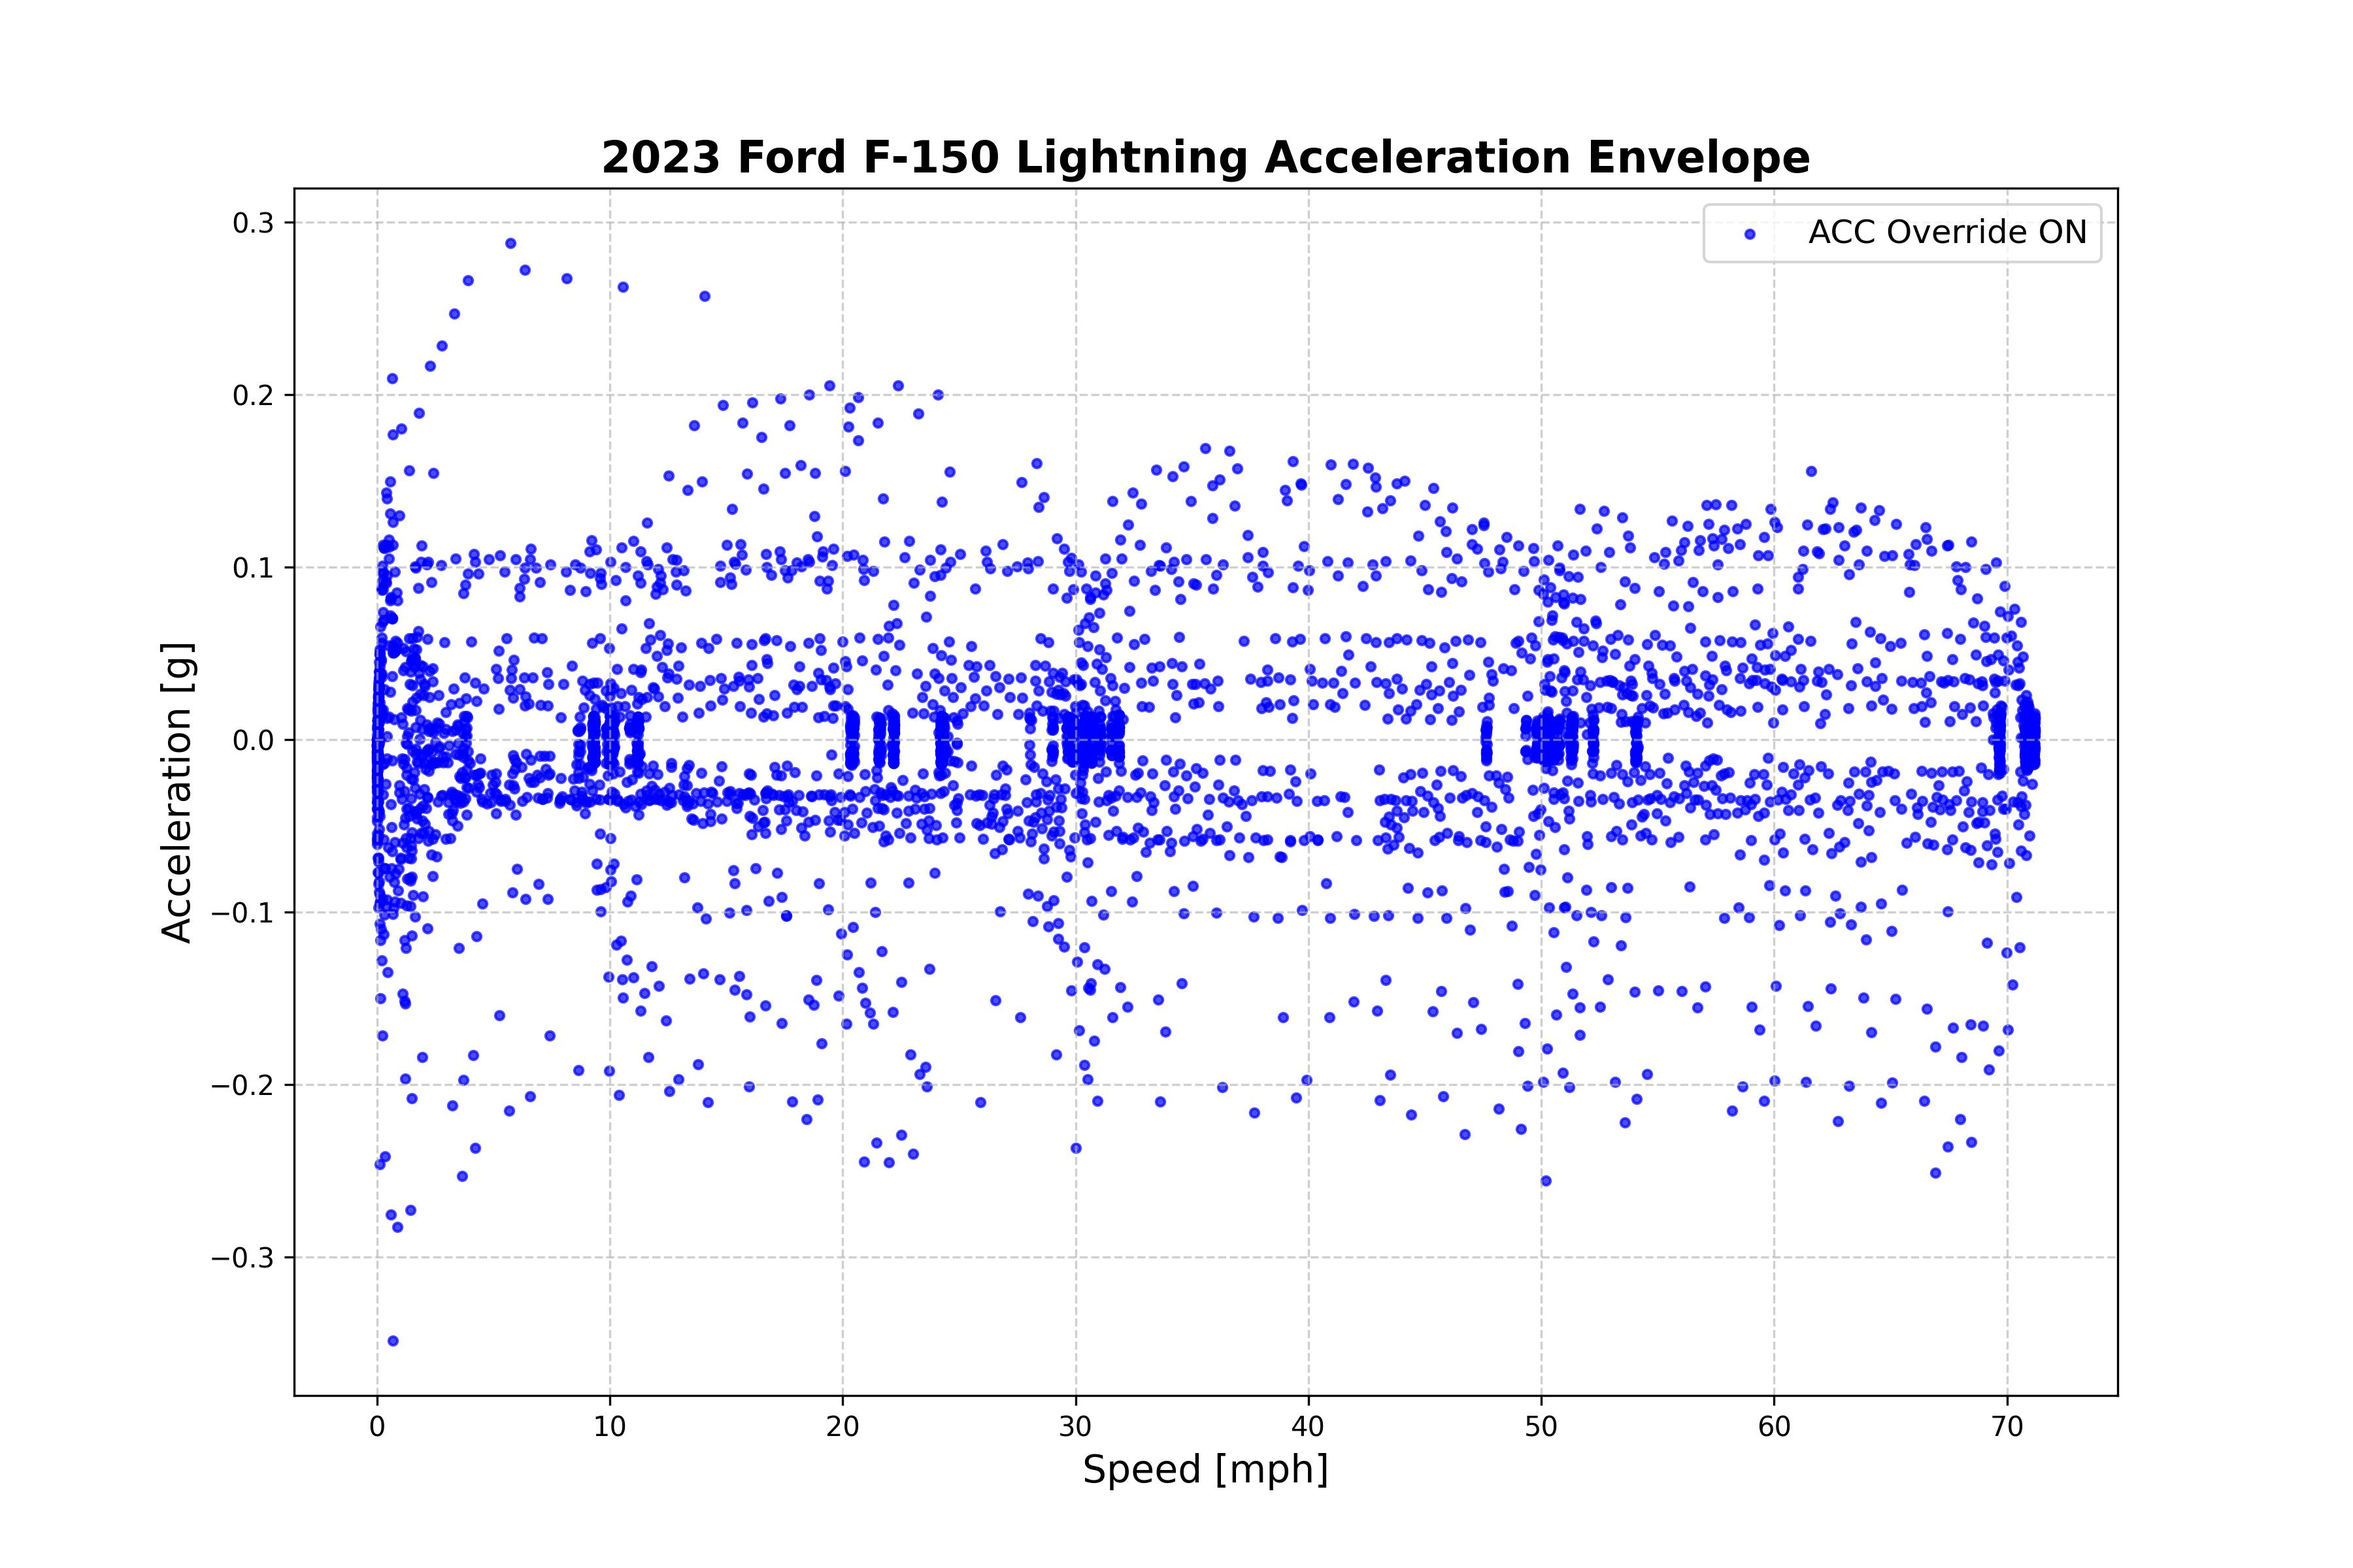
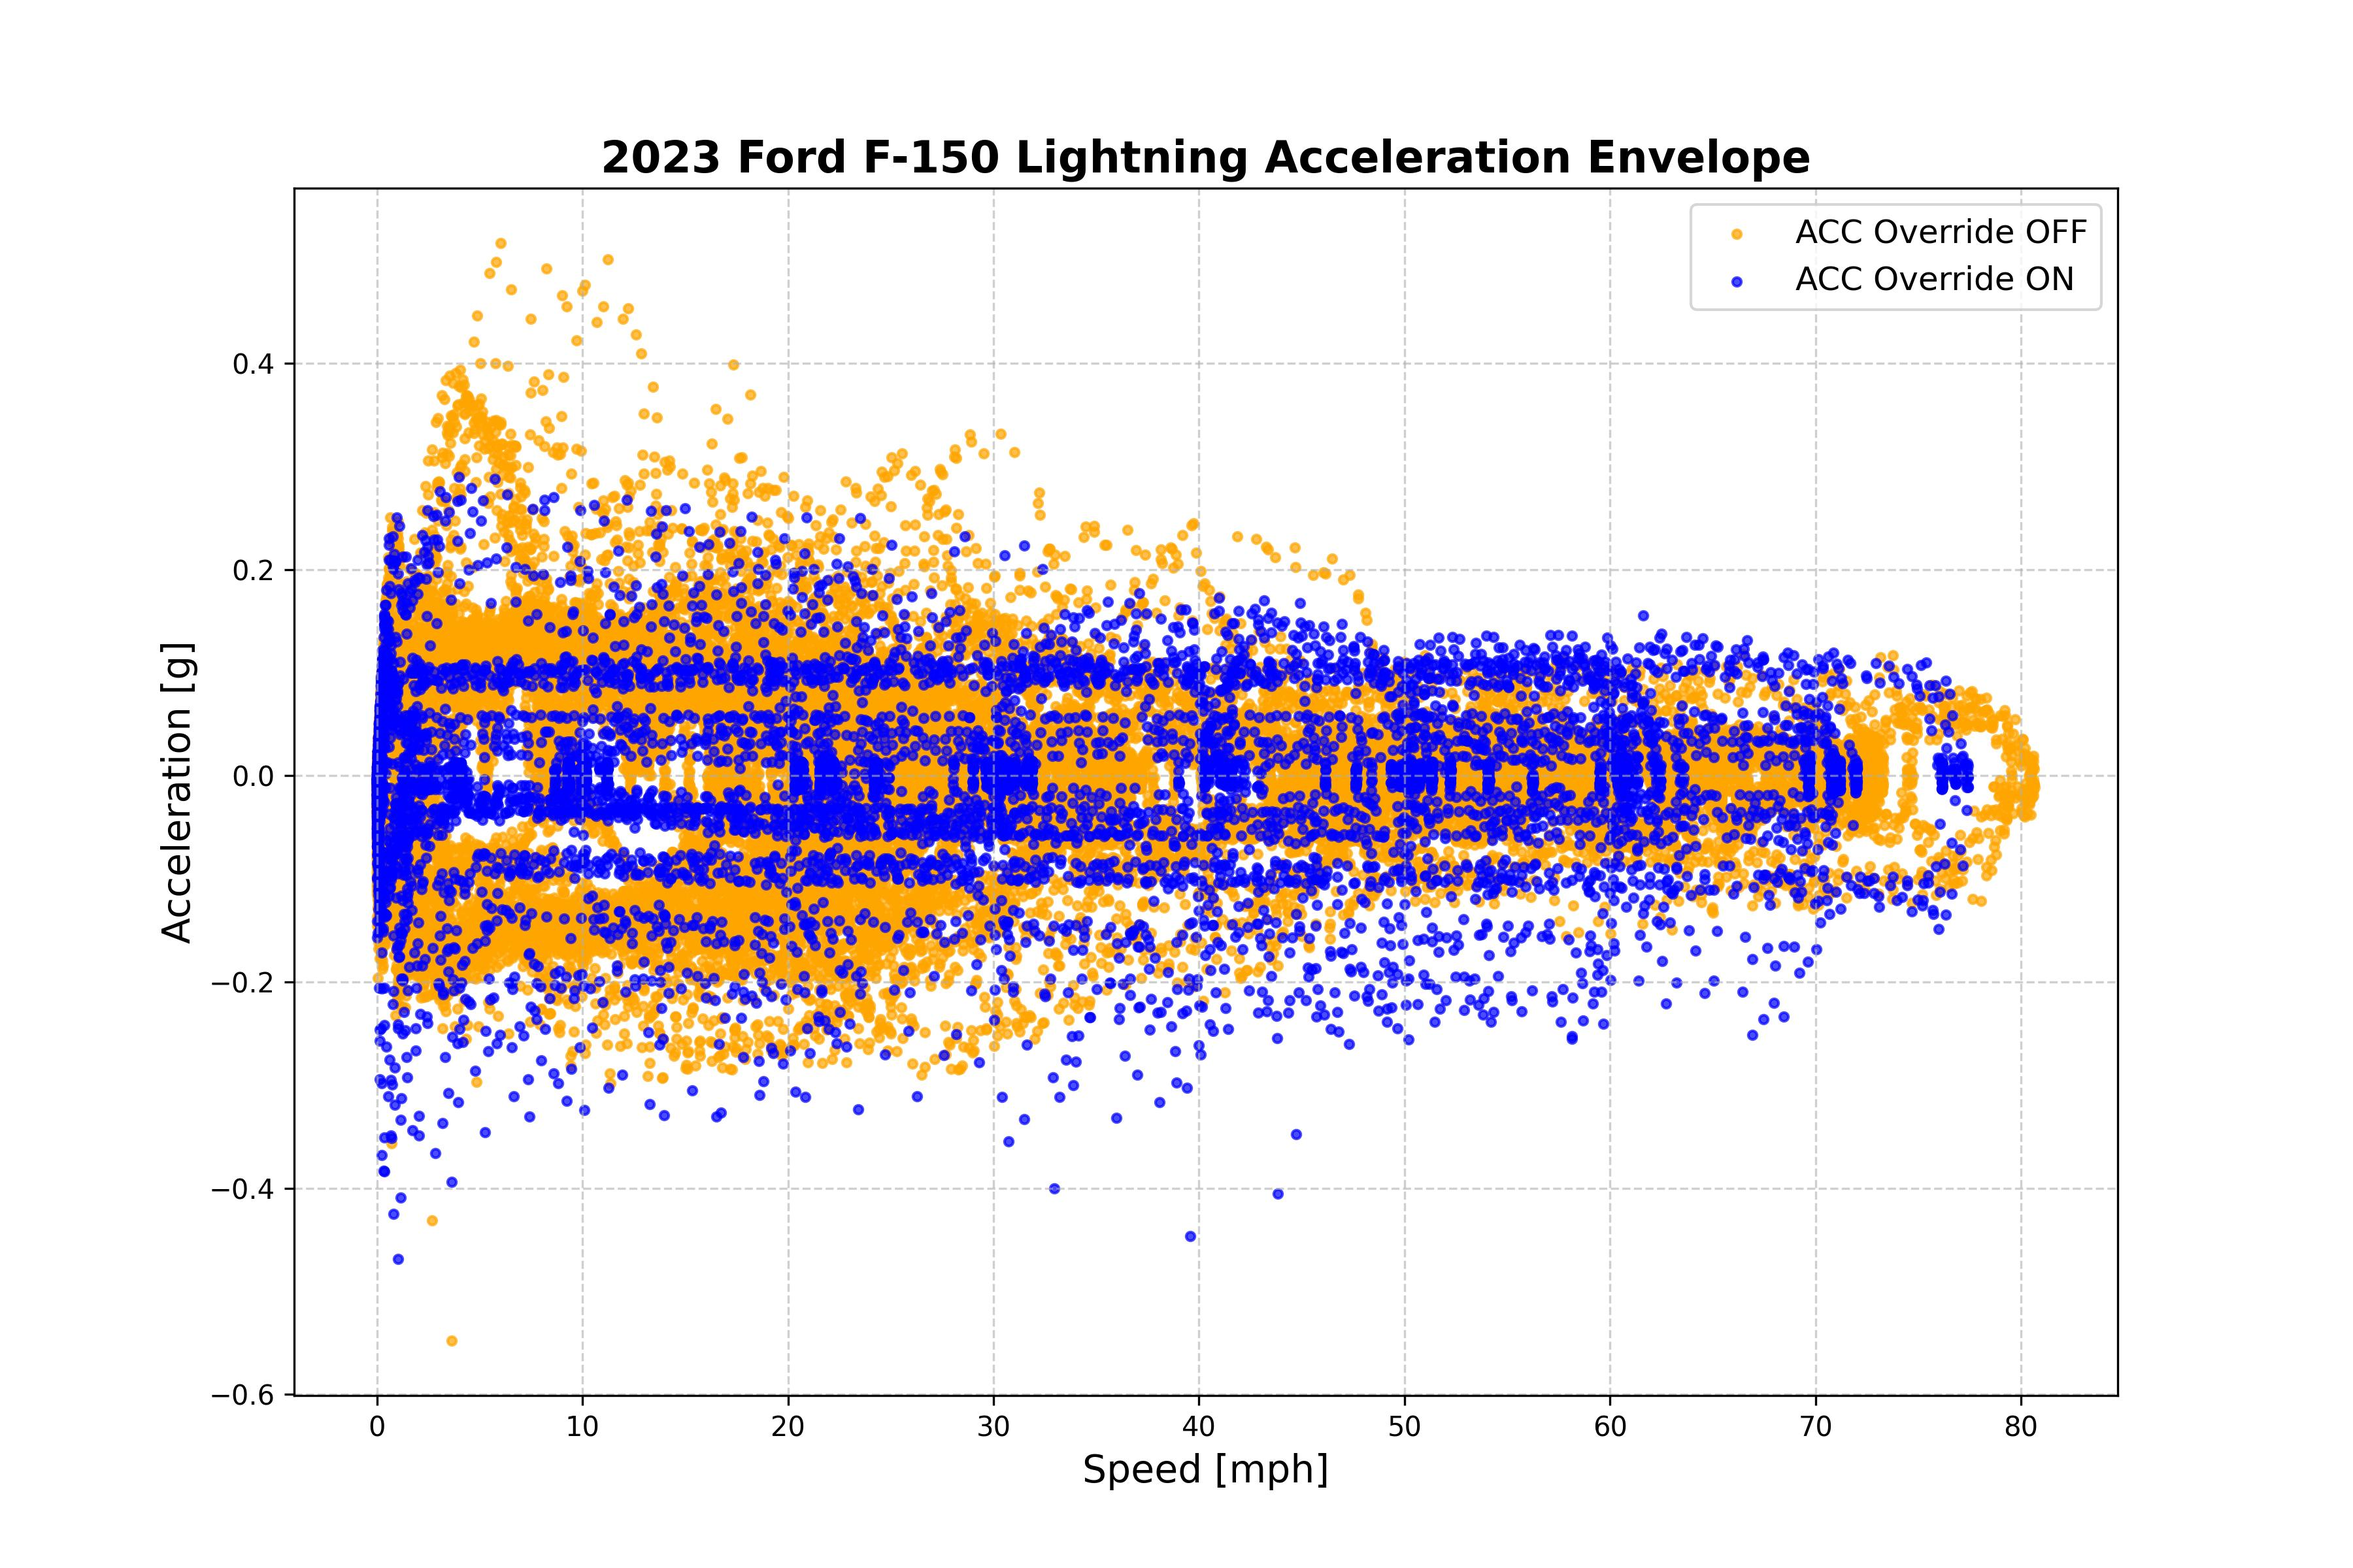
performed acceleration envelop plot analysis

diff --git a/src/tools/xil-data-analysis/2023-Ford-F150-Lightning/PlotManager.py b/src/tools/xil-data-analysis/2023-Ford-F150-Lightning/PlotManager.py
@@ -187,13 +187,13 @@ class PlotManager:
 
         plt.figure(figsize=(12, 8))
         
-        # Plot the main vehicle envelope data
-        plt.scatter(acc_override_speed_mph, acc_override_acceleration, alpha=0.7, label="ACC Override ON", color="blue", s=10)
-        
         # Plot the Stock ACC  data
         if stock_acc_speed_mph and stock_acc_acceleration:
             plt.scatter(stock_acc_speed_mph, stock_acc_acceleration, alpha=0.7, label="ACC Override OFF", color="orange", s=10)
         
+        # Plot the main vehicle envelope data
+        plt.scatter(acc_override_speed_mph, acc_override_acceleration, alpha=0.7, label="ACC Override ON", color="blue", s=10)
+                
         # Add labels, title, and legend
         plt.title("2023 Ford F-150 Lightning Acceleration Envelope", fontsize=16, weight="bold")
         plt.xlabel("Speed [mph]", fontsize=14)

diff --git a/src/tools/xil-data-analysis/2023-Ford-F150-Lightning/AccelerationEnvelopeManager.py b/src/tools/xil-data-analysis/2023-Ford-F150-Lightning/AccelerationEnvelopeManager.py
@@ -39,13 +39,9 @@ class AccelerationEnvelopeManager:
     def get_groups_channels(self):
 
         self.group_data = self.tdms_file["Data"]
-        self.group_vspy = self.tdms_file["Scantool"]
 
-        # self.time_channel = self.group_vspy['Time[s]']
         self.time_channel = self.group_data['Time[s]']
         self.speed_channel_mph = self.group_data['Dyno_Spd[mph]']
-        
-        self.accel_channel = self.group_data['Accel_Command__mps2']
 
         self.time_data = self.time_channel[:]
         self.speed_data_mph = self.speed_channel_mph[:]
